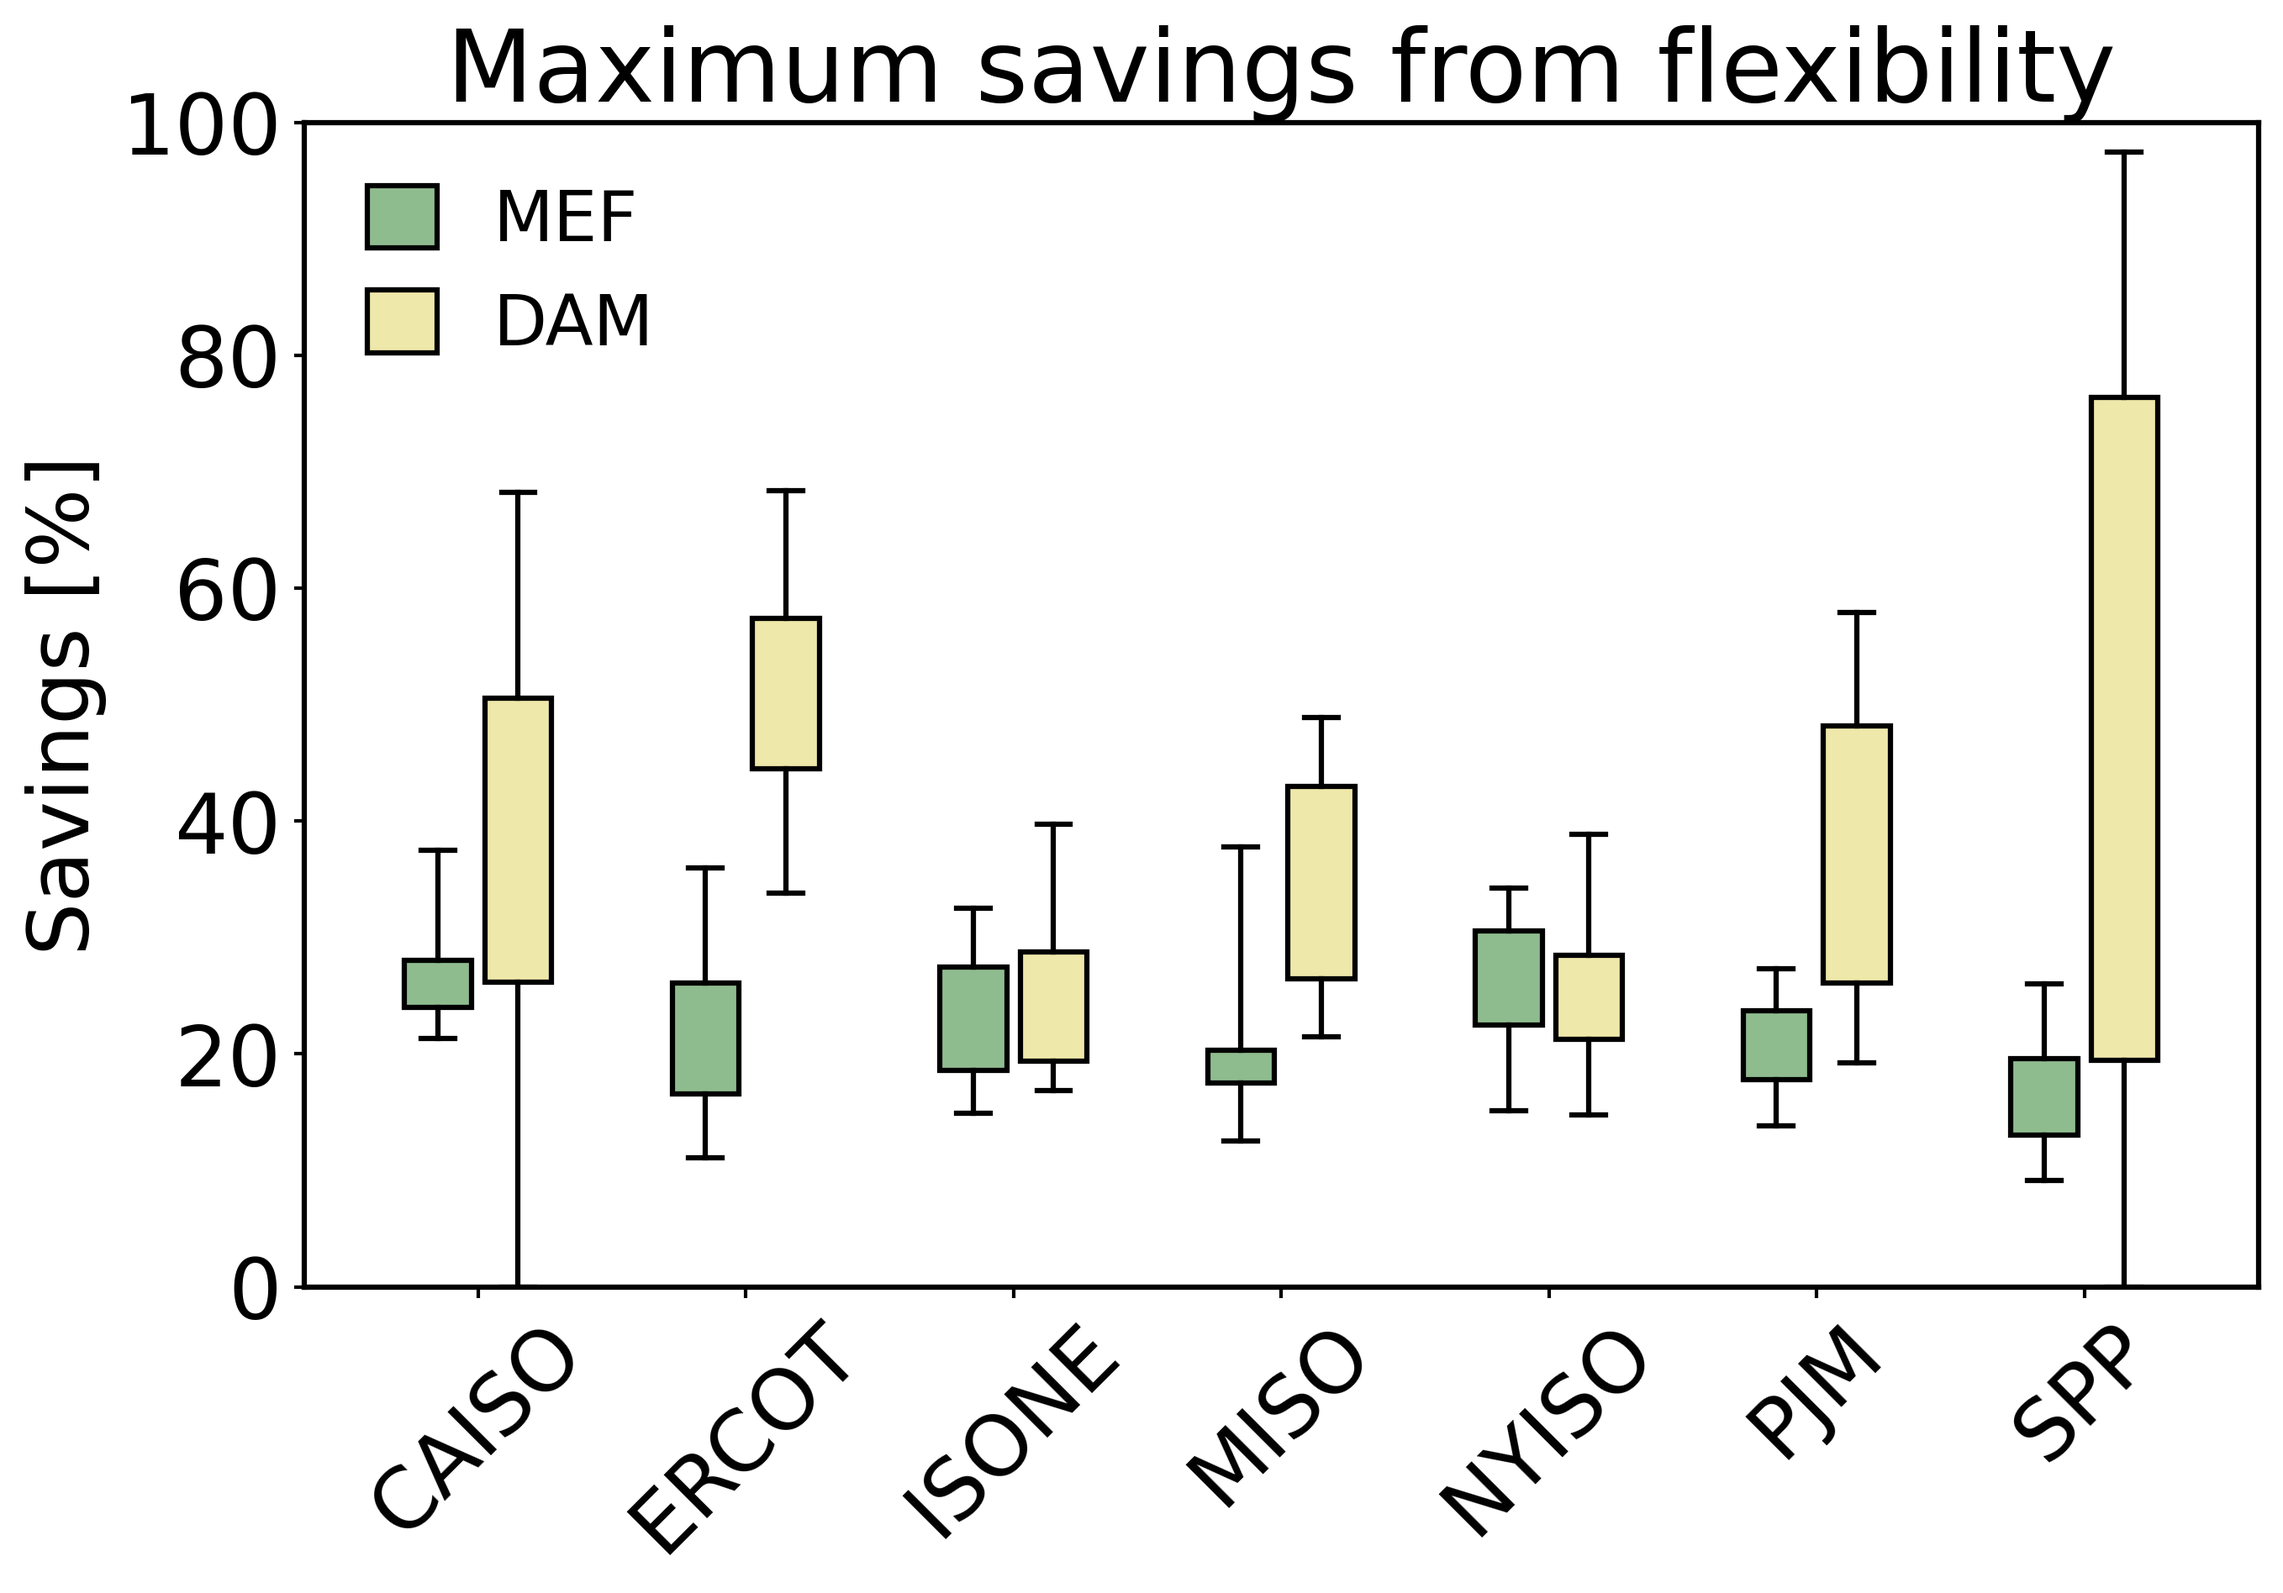
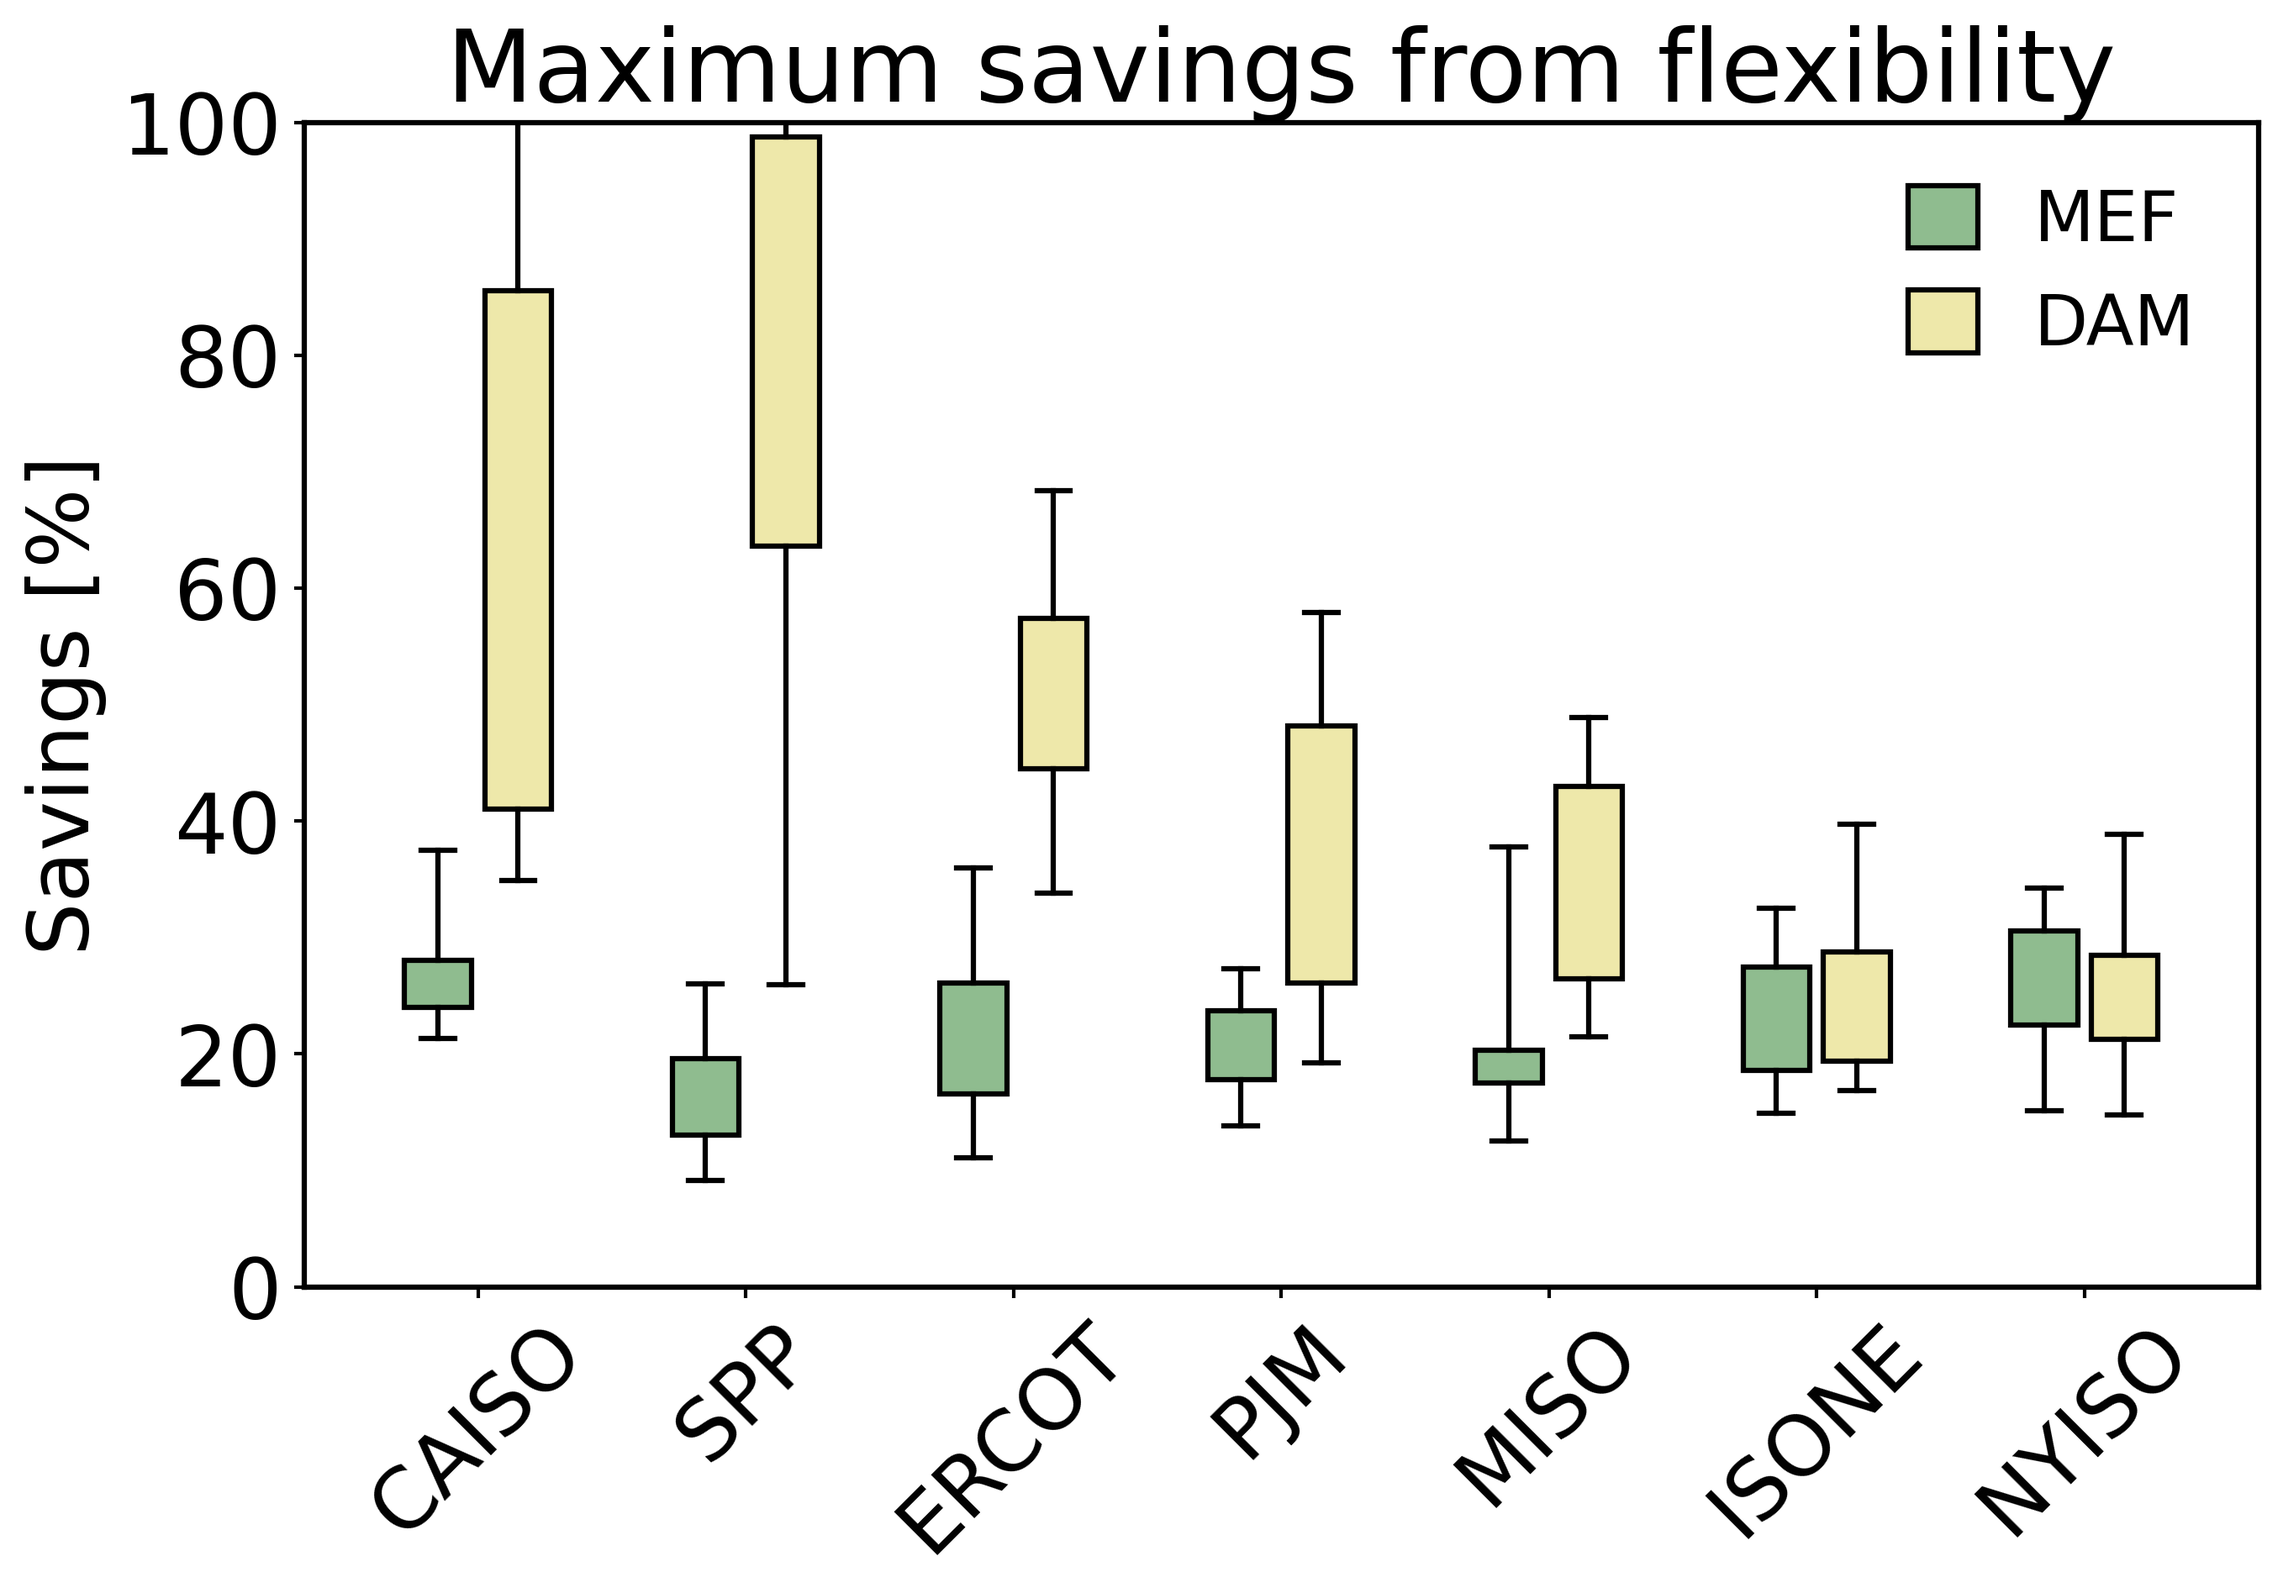
Updating case study results with boxplot.

diff --git a/paper_figures/code/maxsavings_boxplot.py b/paper_figures/code/maxsavings_boxplot.py
@@ -25,7 +25,7 @@ month_arr = np.arange(1, 13)
 regions = ["CAISO", "ERCOT", "ISONE", "MISO", "NYISO", "PJM", "SPP"]
 mef_savings_sweep = np.zeros((len(regions), len(month_arr)))
 aef_savings_sweep = np.zeros((len(regions), len(month_arr)))
-lmp_savings_sweep = np.zeros((len(regions), len(month_arr)))
+dam_savings_sweep = np.zeros((len(regions), len(month_arr)))
 tariff_savings_sweep = np.zeros((len(regions), len(month_arr)))
 
 for i, reg in enumerate(regions):
@@ -50,20 +50,31 @@ for i, reg in enumerate(regions):
             mef_savings_sweep[i, j] = 0.0
 
         # LMP
-        lmp = ps.getlmp(region=reg, month=month)
+        dam = ps.getdam(region=reg, month=month)
         try:
-            lmp_savings_sweep[i, j] = ms.max_lmp_savings(
-                data=lmp,
+            dam_savings_sweep[i, j] = ms.max_dam_savings(
+                data=dam,
                 system_uptime=0.0,
                 continuous_flex=0.0,
-                baseload=np.ones_like(lmp),
+                baseload=np.ones_like(dam),
             )
         except:
             print(
                 f"Error processing LMP for region: {reg}, month: {month}. Setting savings to 0."
             )
-            lmp_savings_sweep[i, j] = 0.0
+            dam_savings_sweep[i, j] = 0.0
 
+# sort the regions by the max savings in either LMP or MEF
+max_savings = np.maximum(mef_savings_sweep.max(axis=1), dam_savings_sweep.max(axis=1))
+sorted_indices = np.argsort(max_savings)[::-1]
+
+# reorder the savings arrays based on sorted indices
+mef_savings_sweep = mef_savings_sweep[sorted_indices, :]
+dam_savings_sweep = dam_savings_sweep[sorted_indices, :]
+
+# reorder the regions based on sorted indices
+regions = [regions[i] for i in sorted_indices]
+# aef_savings_sweep and tariff_savings_sweep are not used in this plot, but can be calculated similarly if needed
 
 # plot box and whisker
 # create a plot of the emissions savings
@@ -82,8 +93,8 @@ mef_plot = ax.boxplot(
                     capprops={"linewidth": 1.5},
                 )
 
-lmp_plot = ax.boxplot(
-                    lmp_savings_sweep.T,
+dam_plot = ax.boxplot(
+                    dam_savings_sweep.T,
                     positions=np.arange(len(regions)) + 0.15,
                     widths=0.25,
                     tick_labels=regions,
@@ -106,7 +117,7 @@ ax.set(  # xlabel='Region',
 )
 plt.setp(ax.get_xticklabels(), rotation=45, ha="center")
 
-ax.legend([mef_plot["boxes"][0], lmp_plot["boxes"][0]], ['MEF', 'DAM'], loc='best',
+ax.legend([mef_plot["boxes"][0], dam_plot["boxes"][0]], ['MEF', 'DAM'], loc='best',
            frameon=False, fontsize=20, handlelength=1, handleheight=1)
 
 # save figure
@@ -132,7 +143,7 @@ savings_data = {
     "month": months_expanded,
     "mef_savings": mef_savings_sweep.flatten(),
     "aef_savings": aef_savings_sweep.flatten(),
-    "lmp_savings": lmp_savings_sweep.flatten(),
+    "dam_savings": dam_savings_sweep.flatten(),
     "tariff_savings": tariff_savings_sweep.flatten()}
 
 pd.DataFrame(savings_data).to_csv(figpath + "/processed_data/savings_limit_boxandwhisker.csv", index=False)
